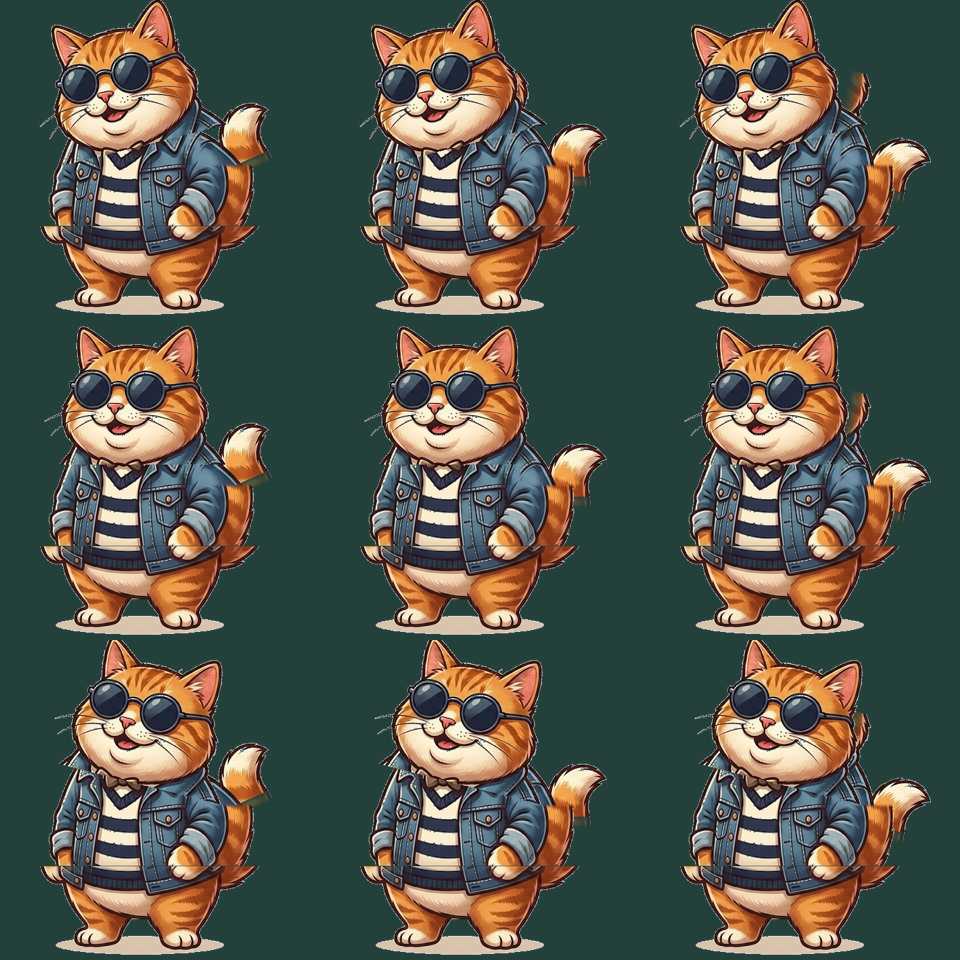
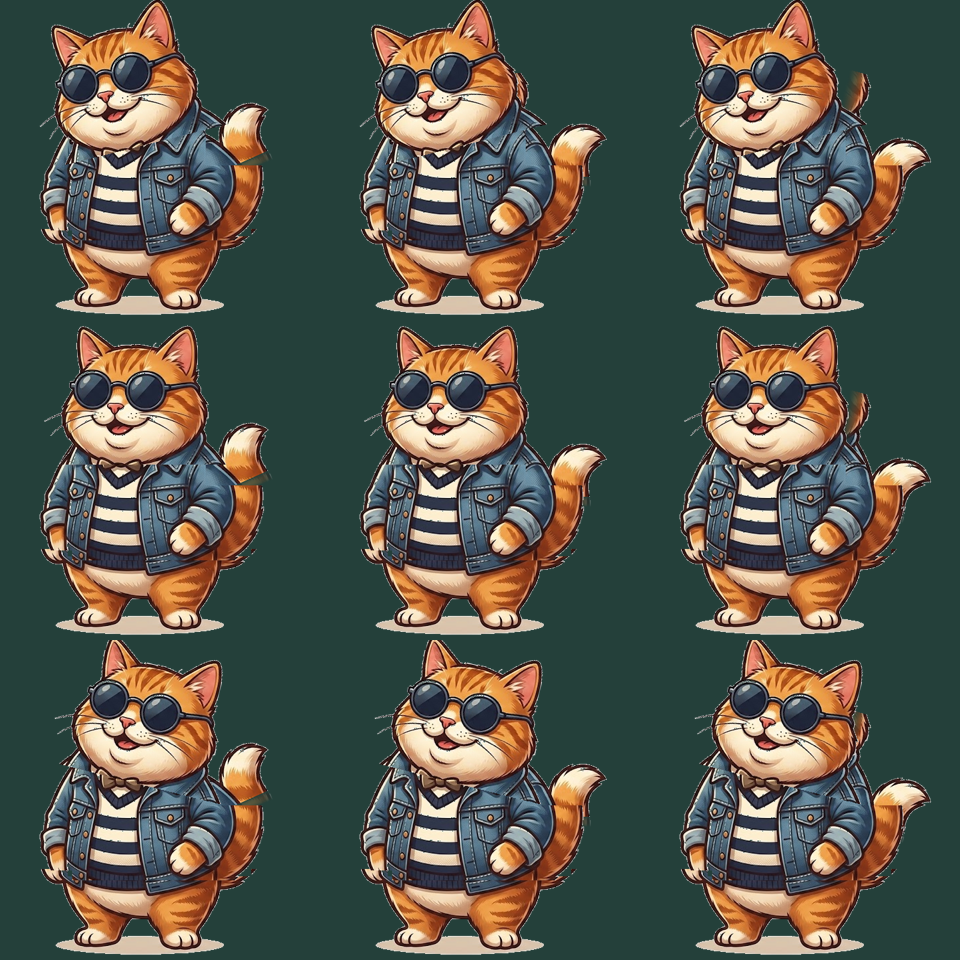
Fix waist/tail/neck seams, dead chat model, robotic voice
Seams: the bob slid the torso faded skirt off the legs hard edge,
exposing a line at the waist, and feathered hole edges went translucent
over the dark card at the neck and tail base. The waist is rebuilt:
the torso keeps an OPAQUE belly-fur skirt 14px past the hem (covers the
legs edge through the full bob), the legs belly columns start below the
hem outline so it lives in only one layer (no doubling), arm/hip
columns keep a 10px vertical-feature overlap, and all hole erases are
hard-edged. Pet squash softened to 0.94/1.06 so the planted arm does
not ghost. Verified at bob-top + squash + head/tail extremes; rest pose
pixel-identical.

Chat: the default model slug google/gemini-2.0-flash-001 does not exist
on OpenRouter (nor did the digest slug) - every default-config call
failed, hence "trouble connecting". Both now default to the verified
free google/gemma-4-31b-it:free.

Voice: TTS now prefers Windows Natural voices (Aria/Jenny/...), falling
back gracefully, with slightly warmer rate/pitch.

diff --git a/src/renderer/launcher/src/components/BuddyCat.jsx b/src/renderer/launcher/src/components/BuddyCat.jsx
@@ -82,11 +82,31 @@ export default function BuddyCat() {
   const driftRef = useRef(null)
   const heartsRef = useRef(null)
   const recognitionRef = useRef(null)
+  const voiceRef = useRef(null)
   const bubbleTimerRef = useRef(null)
   const hideTimerRef = useRef(null)
   const moodTimerRef = useRef(null)
   const modeRef = useRef(mode)
   modeRef.current = mode
+
+  /* ── Pick the warmest available TTS voice (Windows ships robotic defaults;
+     Natural/Aria/Jenny sound far better when installed) ── */
+  useEffect(() => {
+    if (!hasTTS) return
+    function pickVoice() {
+      const voices = window.speechSynthesis.getVoices().filter(v => v.lang?.startsWith('en'))
+      if (!voices.length) return
+      const score = v =>
+        (/natural/i.test(v.name) ? 100 : 0) +
+        (/aria|jenny|emma|ava|libby|sonia/i.test(v.name) ? 50 : 0) +
+        (/zira/i.test(v.name) ? 20 : 0) +
+        (v.lang === 'en-US' ? 10 : 0)
+      voiceRef.current = [...voices].sort((a, b) => score(b) - score(a))[0] ?? null
+    }
+    pickVoice()
+    window.speechSynthesis.addEventListener('voiceschanged', pickVoice)
+    return () => window.speechSynthesis.removeEventListener('voiceschanged', pickVoice)
+  }, [])
 
   /* ── Speech bubble ── */
   const say = useCallback((text, dur) => {
@@ -214,8 +234,9 @@ export default function BuddyCat() {
     if (!hasTTS) return
     window.speechSynthesis.cancel()
     const utt = new SpeechSynthesisUtterance(text)
-    utt.rate = 0.9
-    utt.pitch = 1.05
+    if (voiceRef.current) utt.voice = voiceRef.current
+    utt.rate = 0.92
+    utt.pitch = 1.1
     utt.onstart = () => setSpeaking(true)
     utt.onend = () => setSpeaking(false)
     utt.onerror = () => setSpeaking(false)
@@ -810,8 +831,8 @@ const CSS = `
 @keyframes bc-tail-sway { 0%,100% { transform: rotate(0); } 33% { transform: rotate(5deg); } 66% { transform: rotate(-5deg); } }
 @keyframes bc-squash {
   0% { transform: scale(1, 1); }
-  35% { transform: scale(0.84, 1.16); }
-  70% { transform: scale(1.07, 0.94); }
+  35% { transform: scale(0.94, 1.06); }
+  70% { transform: scale(1.04, 0.97); }
   100% { transform: scale(1, 1); }
 }
 @keyframes bc-purr {

diff --git a/src/main/ipc.js b/src/main/ipc.js
@@ -224,7 +224,7 @@ export function registerIPC() {
   ipcMain.handle('launcher:ask-ai', async (event, { message }) => {
     const apiKey = store.get('ai.openrouterKey') || process.env.OPENROUTER_API_KEY
     if (!apiKey) return { error: 'no-key' }
-    const model = store.get('ai.model') || 'google/gemini-2.0-flash-001'
+    const model = store.get('ai.model') || 'google/gemma-4-31b-it:free'
     const userName = store.get('userName') || 'Grandma'
     const tiles = store.get('tiles') || []
 
@@ -364,7 +364,7 @@ RULES:
   ipcMain.handle('admin:generate-digest', async () => {
     const apiKey = store.get('ai.openrouterKey') || process.env.OPENROUTER_API_KEY
     if (!apiKey) return { error: 'no-key' }
-    const model = store.get('ai.model') || 'poolside/laguna-m.1:free'
+    const model = store.get('ai.digestModel') || 'google/gemma-4-31b-it:free'
     const userName = store.get('userName') || 'Grandma'
     const log = store.get('activityLog') || []
     const sevenDaysAgo = Date.now() - 7 * 24 * 60 * 60 * 1000

diff --git a/docs/ai-buddy/rig_cut.py b/docs/ai-buddy/rig_cut.py
@@ -25,9 +25,12 @@ ASSETS = HERE / "assets"
 #    scales. Re-pick these for new reference art — see boxes.png. ──
 HEAD = (9, 0, 340, 204)      # bottom edge = neck seam, above the bow tie
 TAIL = (259, 109, 397, 263)  # left/bottom edges = tail-base seam
-TORSO = (6, 190, 368, 352)   # bottom edge = waist seam, below jacket hem
-LEGS = (18, 338, 354, 478)   # top edge tucks under the torso skirt; left edge
-                             # catches the dangling left paw (reaches y~460)
+TORSO = (6, 190, 368, 366)   # bottom skirt runs 14px past the jacket hem into
+                             # belly fur, so the ±7px bob never exposes the
+                             # legs' top edge
+LEGS = (18, 342, 354, 478)   # top overlaps the torso by 10px at the arm/hip
+                             # (vertical fur edges tolerate the vertical bob);
+                             # left edge catches the dangling left paw
 
 # ── Overlap skirts (natural px; ~2.27px per display px) ──
 HEAD_SKIRT_X = 16
@@ -36,9 +39,12 @@ HEAD_FADE = 10
 TAIL_SKIRT_X = 26
 TAIL_SKIRT_Y = 16
 TAIL_FADE = 12
-WAIST_FADE = 14              # torso's bottom skirt overlapping the legs.
-                             # Only the torso fades at the waist: fading both
-                             # sides made the overlap band semi-transparent.
+WAIST_SKIRT_X = (60, 335)    # x-range of the torso's belly skirt. Rows below
+                             # the hem (352) exist in BOTH layers inside this
+                             # range and ONLY in the torso outside it — keeps
+                             # the strong hem outline from doubling when the
+                             # torso bobs. All waist erases are HARD (feather
+                             # would make the seam semi-transparent).
 
 BG = (36, 64, 58, 255)       # --bg-card, so exposed seams show like in-app
 
@@ -74,7 +80,8 @@ def erase(img, box_abs, crop_box, feather=1.5):
     cx, cy = crop_box[0], crop_box[1]
     hole = Image.new("L", img.size, 255)
     ImageDraw.Draw(hole).rectangle((x0 - cx, y0 - cy, x1 - cx, y1 - cy), fill=0)
-    hole = hole.filter(ImageFilter.GaussianBlur(feather))
+    if feather > 0:
+        hole = hole.filter(ImageFilter.GaussianBlur(feather))
     img.putalpha(ImageChops.multiply(img.getchannel("A"), hole))
     return img
 
@@ -122,10 +129,14 @@ def main():
     sol, sot, sor, sob = TORSO
     lel, let, ler, leb = LEGS
 
-    # ── LEGS: planted anchor layer. Hard edges — the top edge lives under
-    #    the torso's fade zone, the rest is silhouette. ──
+    # ── LEGS: planted anchor layer. Belly columns (inside WAIST_SKIRT_X)
+    # start BELOW the hem outline so the hem lives in only one layer; arm and
+    # hip columns start at 342, overlapping the torso by 10px — vertical fur
+    # edges survive the vertical bob. Hard top edges everywhere: they are
+    # always covered by the torso's opaque skirt. ──
     legs_box = (lel, let, ler, leb)
     legs = cutout.crop(legs_box)
+    erase(legs, (WAIST_SKIRT_X[0] + 1, 342, WAIST_SKIRT_X[1], 352), legs_box, feather=0)
     legs.save(ASSETS / "layer-legs.png")
 
     # ── TAIL: skirt extends into the hip (left) and down past the old cut ──
@@ -134,12 +145,18 @@ def main():
                       bottom=tail_box[3] - tb, fade=TAIL_FADE)
     tail.save(ASSETS / "layer-tail.png")
 
-    # ── TORSO: shoulders to below the jacket hem. Holes where the head and
-    #    tail live; bottom skirt overlaps the legs' top. ──
+    # ── TORSO: shoulders to 14px below the jacket hem. Holes where the head
+    #    and tail live (hard-edged — the head/tail layers cover them exactly,
+    #    and a feathered hole edge goes translucent over the dark card).
+    #    Belly skirt rows 352-366 stay opaque (covers the legs' edge through
+    #    the full bob); outside the skirt x-range the torso ends at 352 so
+    #    the dangling arm lives in only one layer. ──
     torso_box = (sol, sot, sor, sob)
-    torso = faded_crop(cutout, torso_box, bottom=WAIST_FADE)
-    erase(torso, (hl + HEAD_SKIRT_X, ht, hr, hb - 8), torso_box)   # neck hole
-    erase(torso, (tl + 14, tt, tr, tb - 4), torso_box)             # tail hole
+    torso = cutout.crop(torso_box)
+    erase(torso, (hl + HEAD_SKIRT_X, ht, hr, hb - 8), torso_box, feather=0)   # neck hole
+    erase(torso, (tl + 14, tt, tr, tb - 4), torso_box, feather=0)             # tail hole
+    erase(torso, (sol, 352, WAIST_SKIRT_X[0] - 1, 366), torso_box, feather=0)   # left of skirt
+    erase(torso, (WAIST_SKIRT_X[1], 352, sor, 366), torso_box, feather=0)     # right of skirt
     torso.save(ASSETS / "layer-torso.png")
 
     # ── HEAD: skirt left + below only (right would slice into the tail's
@@ -198,16 +215,17 @@ def main():
         d.line((px, py - 14, px, py + 14), fill=(255, 255, 0, 255), width=3)
     vis.convert("RGB").save(HERE / "boxes.png")
 
-    # ── gap-check.png: extreme poses; torso at tap-squash scale (the
-    #    harshest waist-seam stress) ──
+    # ── gap-check.png: extreme poses. Torso at the bob's top extreme (dy -7,
+    #    the waist seam's worst case) combined with tap-squash scale. ──
     cell = 320
     sheet = Image.new("RGBA", (cell * 3, cell * 3), BG)
+    bobbed_torso_box = (torso_box[0], torso_box[1] - 7, torso_box[2], torso_box[3] - 7)
     for i, hdeg in enumerate((-14, 0, 14)):
         for j, tdeg in enumerate((-24, 0, 16)):  # actual animation extremes
             frame = Image.new("RGBA", cutout.size, (0, 0, 0, 0))
             frame.alpha_composite(legs, legs_box[:2])
             rotated_paste(frame, tail, tail_box, tdeg, tail_origin)
-            scaled_paste(frame, torso, torso_box, 0.86, 1.14, torso_origin)
+            scaled_paste(frame, torso, bobbed_torso_box, 0.94, 1.06, torso_origin)
             rotated_paste(frame, head, head_box, hdeg, head_origin)
             s = cell / max(frame.size)
             frame = frame.resize((int(frame.size[0] * s), int(frame.size[1] * s)))
